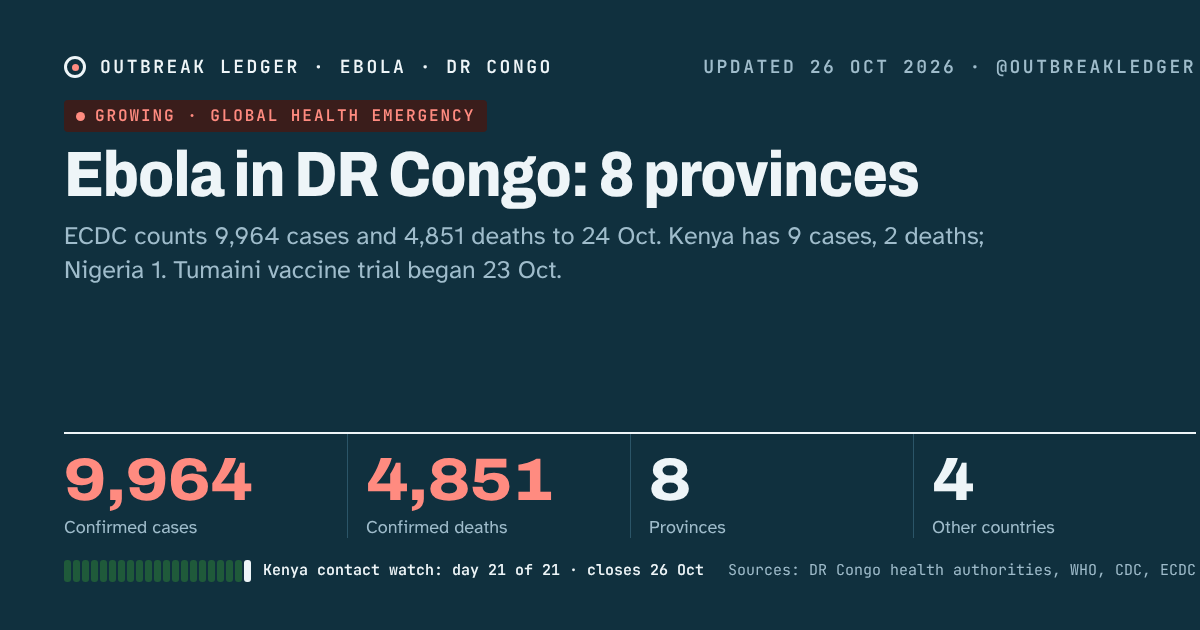
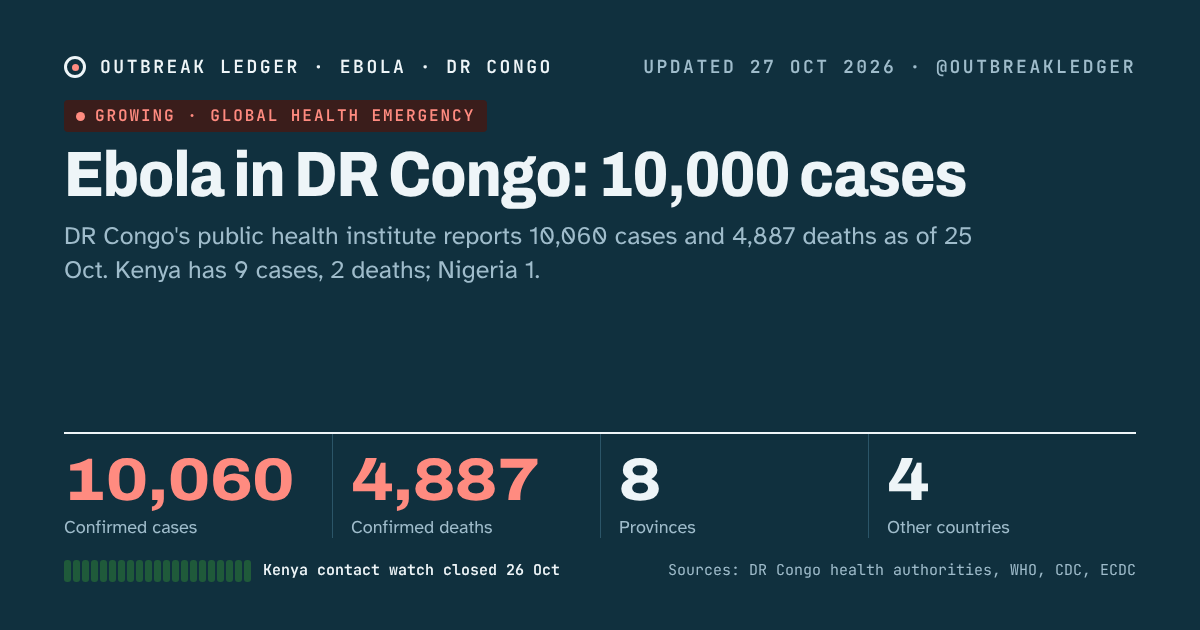
Trackers: Ebola DR Congo passes 10,000 confirmed cases (INSP 10,060 cases, 4,887 deaths as of 25 Oct); measles, mpox, cholera, dengue, marburg checked, no change
Claude-Session: https://claude.ai/code/session_01DjK934MGj4uKY77RiACNyU

diff --git a/site/ebola/share/latest-post.md b/site/ebola/share/latest-post.md
@@ -1,5 +1,5 @@
-Ebola (Bundibugyo): ECDC counts 9,964 confirmed cases and 4,851 deaths in DR Congo (data to 24 Oct), in eight provinces. Kenya has 9 confirmed cases, 2 of them fatal, and released its first 20 contacts from quarantine on 26 Oct.
+Ebola (Bundibugyo): DR Congo's public health institute reports 10,060 confirmed cases and 4,887 deaths as of 25 Oct, passing 10,000 cases (Reuters, Al Jazeera). Eight provinces affected. Kenya has 9 cases, 2 fatal.
 
 https://nhlebe1.github.io/ai-scheduler-platform/ebola/
 
-Sources: ECDC (25 Oct); Kenya Ministry of Health via Reuters/KSL and Capital FM (26 Oct); AP via News4Jax (23 Oct).
+Sources: DR Congo INSP data via Reuters/U.S. News and Al Jazeera (27 Oct); ECDC (25 Oct); Kenya Ministry of Health via Reuters/KSL (26 Oct).
